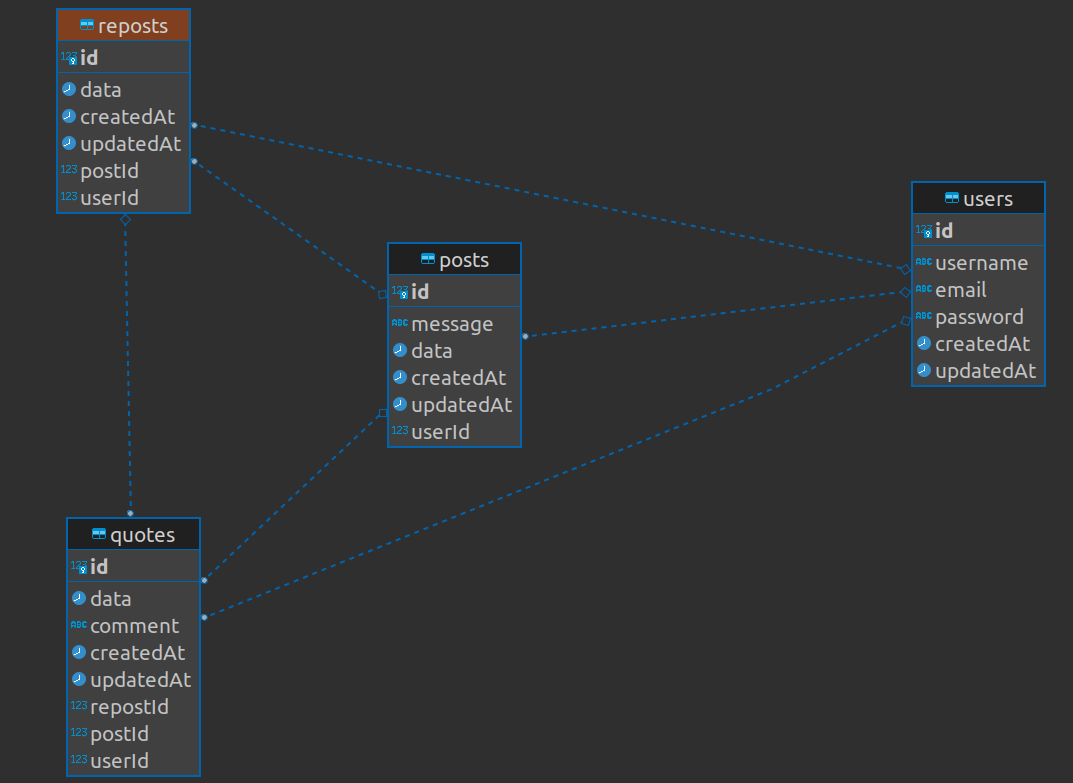
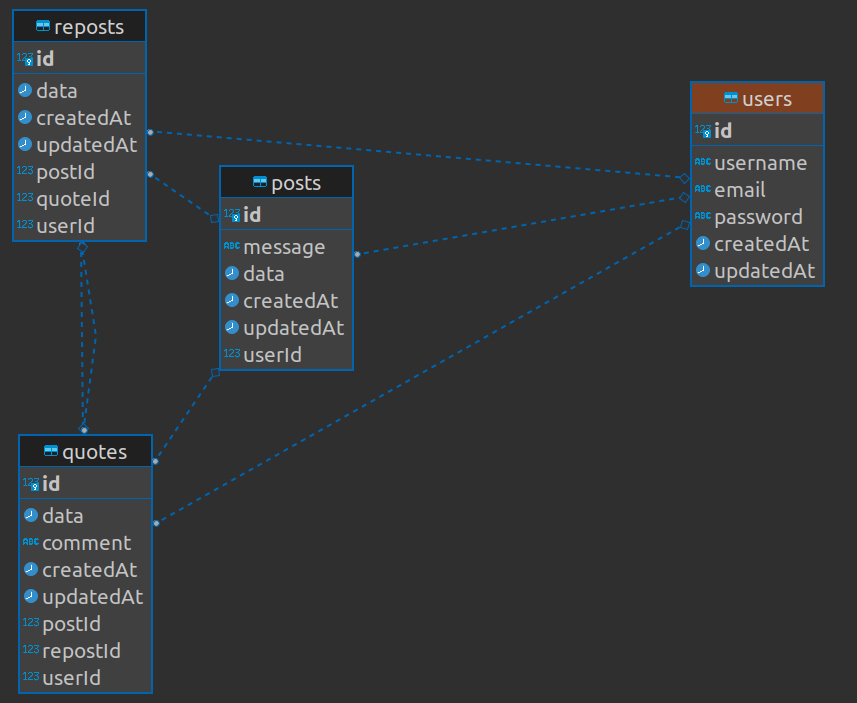
feat: Created association file

diff --git a/src/models/associations.js b/src/models/associations.js
@@ -1,0 +1,64 @@
+const Post = require("./posts");
+const User = require("./users");
+const Quote = require("./quote");
+const RePost = require("./rePost");
+const association = () => {
+  console.log(Post, User);
+
+  // Post
+  Post.associate = function (models) {
+    Post.belongsTo(User, { foreignKey: "id", as: "userId" });
+  };
+  Post.hasMany(RePost);
+  Post.hasMany(Quote);
+
+  // Quote
+  Quote.associate = function (models) {
+    Quote.belongsTo(Post, {
+      foreignKey: "id",
+      as: "postId",
+      allowNull: true
+    });
+  };
+
+  Quote.associate = function (models) {
+    Quote.belongsTo(RePost, {
+      foreignKey: "id",
+      as: "repostId",
+      allowNull: true
+    });
+  };
+  Quote.associate = function (models) {
+    Quote.belongsTo(User, { foreignKey: "id", as: "userId" });
+  };
+  Quote.hasMany(RePost);
+
+  // RePost
+  RePost.associate = function (models) {
+    RePost.belongsTo(Post, {
+      foreignKey: "id",
+      as: "postId",
+      allowNull: true
+    });
+  };
+  RePost.associate = function (models) {
+    RePost.belongsTo(Quote, {
+      foreignKey: "id",
+      as: "quoteId",
+      allowNull: true
+    });
+  };
+  RePost.associate = function (models) {
+    RePost.belongsTo(User, { foreignKey: "id", as: "userId" });
+  };
+  RePost.hasMany(Quote);
+
+  // User
+  User.hasMany(Post);
+  User.hasMany(RePost);
+  User.hasMany(Quote);
+};
+const factory = {
+  association
+};
+module.exports = factory;

diff --git a/src/models/quote.js b/src/models/quote.js
@@ -1,6 +1,6 @@
 const { DataTypes } = require("sequelize");
 const db = require("../utils/database");
-
+const RePost = require("./rePost");
 const Quote = db.define("quotes", {
   id: {
     type: DataTypes.INTEGER,
@@ -20,22 +20,25 @@ const Quote = db.define("quotes", {
   }
 });
 
-Quote.associate = function (models) {
-  Quote.belongsTo(models.posts, {
-    foreignKey: "id",
-    as: "postId",
-    allowNull: true
-  });
-};
-Quote.associate = function (models) {
-  Quote.belongsTo(models.reposts, {
-    foreignKey: "id",
-    as: "repostId",
-    allowNull: true
-  });
-};
-Quote.associate = function (models) {
-  Quote.belongsTo(models.users, { foreignKey: "id", as: "userId" });
-};
+// Quote.associate = function (models) {
+//   Quote.belongsTo(models.posts, {
+//     foreignKey: "id",
+//     as: "postId",
+//     allowNull: true
+//   });
+// };
+// if (!db.models.reposts) {
+//   db.models.reposts = RePost;
+// }
+// Quote.associate = function (models) {
+//   Quote.belongsToMany(db.models.reposts, {
+//     foreignKey: "id",
+//     as: "repostId",
+//     through: "quoterepost"
+//   });
+// };
+// Quote.associate = function (models) {
+//   Quote.belongsTo(models.users, { foreignKey: "id", as: "userId" });
+// };
 
 module.exports = Quote;

diff --git a/src/models/rePost.js b/src/models/rePost.js
@@ -1,6 +1,6 @@
 const { DataTypes } = require("sequelize");
 const db = require("../utils/database");
-const Quote = require("./quote.js")
+const Quote = require("./quote.js");
 const RePost = db.define("reposts", {
   id: {
     type: DataTypes.INTEGER,
@@ -14,11 +14,11 @@ const RePost = db.define("reposts", {
   }
 });
 
-RePost.associate = function (models) {
-  RePost.belongsTo(models.posts, { foreignKey: "id", as: "postId" });
-};
-RePost.associate = function (models) {
-  RePost.belongsTo(models.users, { foreignKey: "id", as: "userId" });
-};
-RePost.hasMany(Quote);
+// RePost.associate = function (models) {
+//   RePost.belongsToMany(models.posts, { foreignKey: "id", as: "postId",through: 'quoterepost' });
+// };
+// RePost.associate = function (models) {
+//   RePost.belongsTo(models.users, { foreignKey: "id", as: "userId" });
+// };
+
 module.exports = RePost;

diff --git a/src/index.js b/src/index.js
@@ -8,12 +8,14 @@ app.use(bodyParser.urlencoded({ extended: true }));
 
 const sequelize = require("./utils/database.js");
 const router = require("./routes/router.js");
+const association = require("./models/associations")
 const port = process.env.PORT || 3000;
 
 (async () => {
   try {
+    association.association();
     await sequelize.sync(
-      { force: false }, // Reset db every time
+      { force: true }, // Reset db every time
       { alter: true }
     );
     app.listen(port, function () {

diff --git a/src/models/posts.js b/src/models/posts.js
@@ -22,10 +22,10 @@ const Post = db.define("posts", {
   }
 });
 
-Post.associate = function (models) {
-  Post.belongsTo(models.users, { foreignKey: "id", as: "userId" });
-};
+// Post.associate = function (models) {
+//   Post.belongsTo(models.users, { foreignKey: "id", as: "userId" });
+// };
 
-Post.hasMany(RePost);
-Post.hasMany(Quote);
+// Post.hasMany(RePost);
+// Post.hasMany(Quote);
 module.exports = Post;

diff --git a/src/models/users.js b/src/models/users.js
@@ -45,7 +45,7 @@ const User = db.define("users", {
     }
   }
 });
-User.hasMany(Post);
-User.hasMany(RePost);
-User.hasMany(Quote);
+// User.hasMany(Post);
+// User.hasMany(RePost);
+// User.hasMany(Quote);
 module.exports = User;
